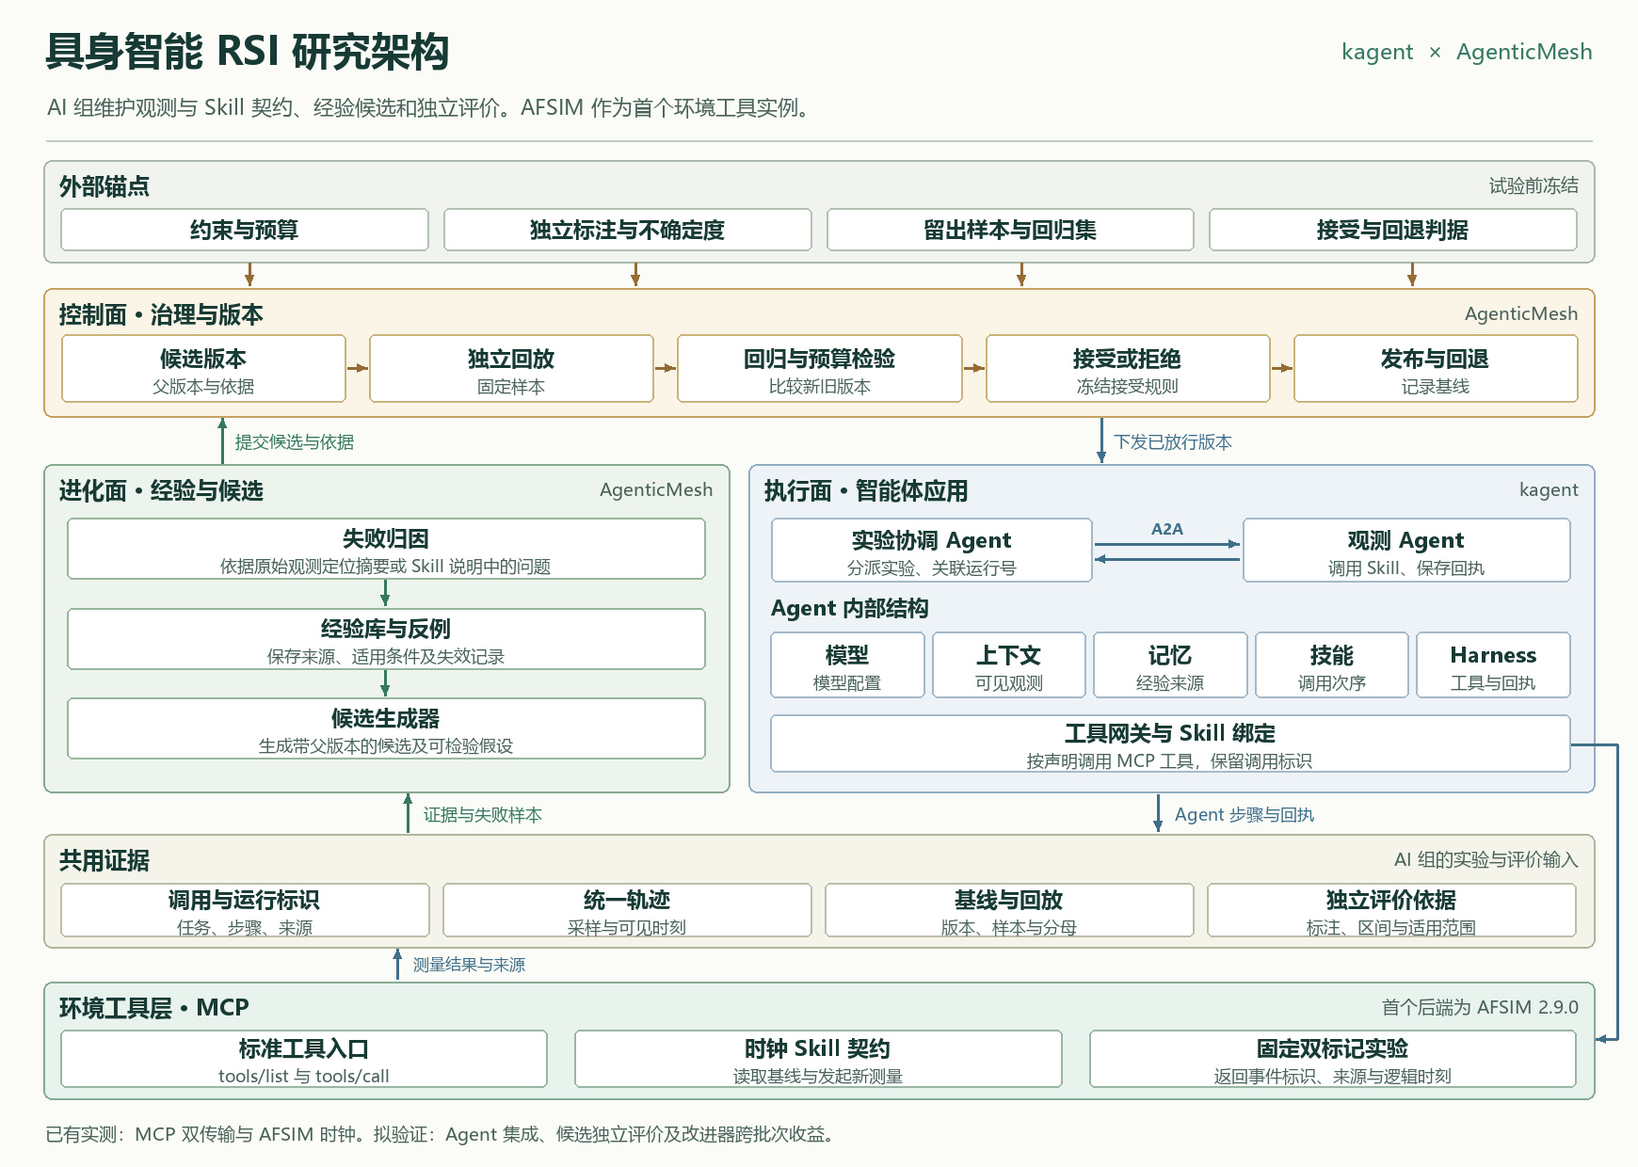
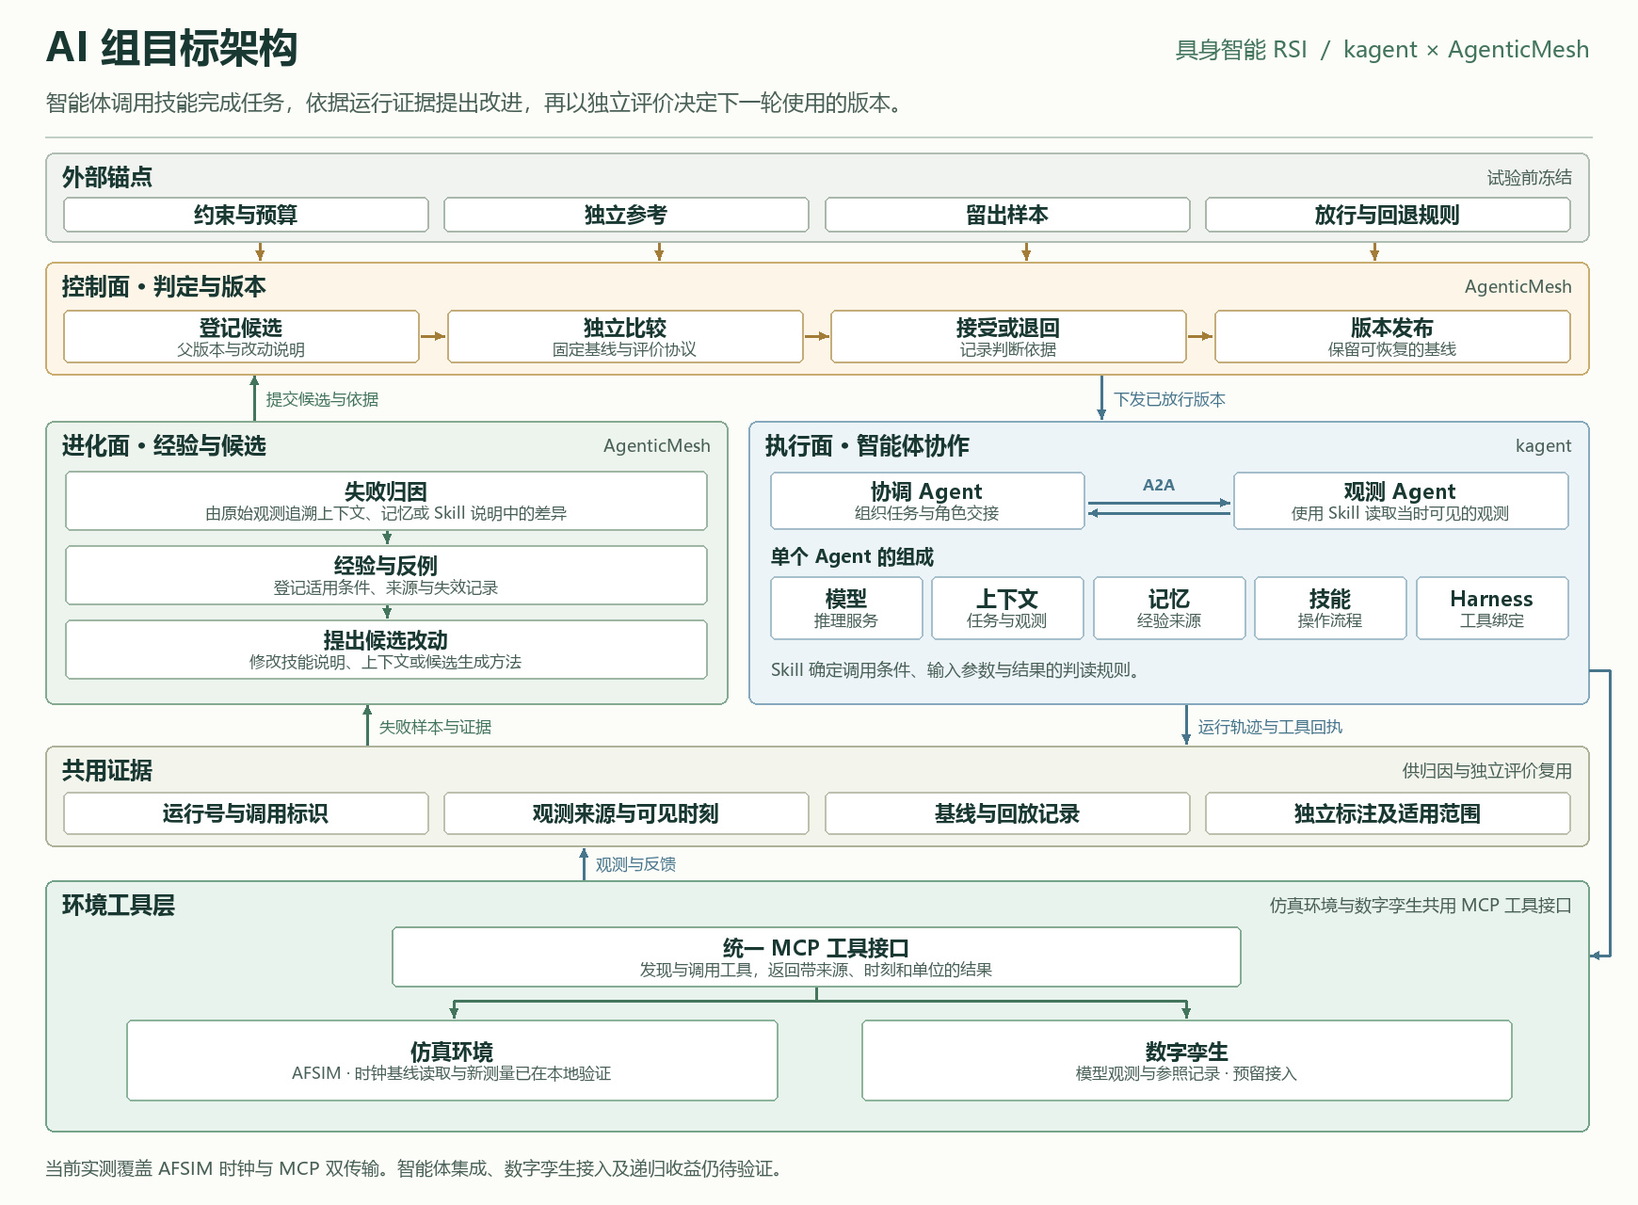
Unify simulation and digital twin services beneath the AI architecture

Changed region(s): [[0.031, 0.0, 0.9931, 0.9806], [0.7138, 0.0306, 0.9931, 0.0613]]

diff --git a/index.html b/index.html
@@ -4,8 +4,8 @@
   <meta charset="utf-8">
   <meta name="viewport" content="width=device-width, initial-scale=1">
   <meta name="theme-color" content="#123c36">
-  <meta name="description" content="基于 kagent 与 AgenticMesh 的具身智能 RSI 分层架构，含 AI 组研究方向、MCP 工具契约及首个 AFSIM 仿真实例。">
-  <title>具身智能 RSI · AI 组研究架构</title>
+  <meta name="description" content="基于 kagent 与 AgenticMesh 的具身智能 RSI 分层架构，上层组织智能体、Skill、经验与独立评价，底层以 MCP 接入仿真环境和数字孪生。">
+  <title>AI 组目标架构 · 具身智能 RSI</title>
   <link rel="stylesheet" href="./framework.css">
   <link rel="stylesheet" href="./embodied.css">
   <link rel="stylesheet" href="./blueprint.css">
@@ -17,16 +17,16 @@
   <a class="skip" href="#architecture">跳到通用架构</a>
   <header><div class="wrap bar">
     <a class="brand" href="#top"><b>具身智能</b><span>RSI 研究架构</span></a>
-    <nav aria-label="主导航"><a href="#architecture">架构总图</a><a href="./directions.html">方向规划图</a><a href="#engineering">AI 组任务</a><a href="#tool-contract">MCP 工具</a><a href="#adaptation">任务实例</a><a href="#recursion">递归验证</a><a href="#assets">成果库</a></nav>
+    <nav aria-label="主导航"><a href="#architecture">架构总图</a><a href="./directions.html">方向规划图</a><a href="#engineering">AI 组任务</a><a href="#environment-tools">环境工具层</a><a href="#adaptation">任务实例</a><a href="#recursion">递归验证</a><a href="#assets">成果库</a></nav>
   </div></header>
   <main>
     <section id="architecture" class="wrap blueprint-section">
       <div id="framework" class="blueprint-heading">
-        <div><p class="kicker">AI 组 · 具身智能与递归自我改进</p><h1>具身智能 RSI <em>研究架构</em></h1></div>
-        <p>kagent 承载智能体，AgenticMesh 管理证据与版本演化。智能体通过 MCP 调用环境工具，首个仿真后端选用 AFSIM。</p>
+        <div><p class="kicker">AI 组 · 目标架构</p><h1>具身智能体的<br><em>递归自我改进架构</em></h1></div>
+        <p>AI 组希望让智能体能够协作完成任务，从运行记录中找出失败原因，并提出可检验的技能改进。kagent 运行智能体，AgenticMesh 管理改进候选及其版本。候选通过独立评价后，才进入下一轮任务。</p>
       </div>
       <figure class="blueprint" aria-labelledby="map-caption">
-        <figcaption id="map-caption"><strong>系统组件与关系</strong><span>选择组件查看 AI 组交付与研究方向</span></figcaption>
+        <figcaption id="map-caption"><strong>系统组件与关系</strong><span>选择组件查看其职责与研究方向</span></figcaption>
         <div class="map-band anchor-band"><div class="band-title">外部锚点 <small>试验前冻结</small></div><div class="node-strip"><a href="#work-eval">约束与预算</a><a href="#work-twin">独立参考与不确定度</a><a href="#work-eval">留出样本与放行规则</a></div></div>
         <div class="map-wire">↓ 固定评价条件</div>
         <div id="control" class="map-band control-band"><div class="band-title">控制面 <small>AgenticMesh · 治理与发布</small></div><div class="node-strip flow-nodes"><a href="#work-release">接收候选</a><a href="#work-eval">独立对照与回归</a><a href="#work-release">发布或回退版本</a></div></div>
@@ -46,19 +46,19 @@
         </div>
         <div class="map-rails"><span>↑ 轨迹、失败样本与反馈</span><span>↕ 工具调用与结构化结果</span></div>
         <div class="map-band evidence-band"><div class="band-title">共用底座 <small>遥测、证据与实验</small></div><div class="node-strip"><a href="#work-eval">运行号与调用轨迹</a><a href="#work-eval">可复核的基线与回放</a><a href="#work-twin">独立标注与适用范围</a></div></div>
-        <div class="map-band tool-band"><div class="band-title">环境工具层 <small>MCP · 仿真适配</small></div>
-          <div class="tool-flow"><a href="#tool-contract">MCP 工具入口</a><span>⇄</span><a href="#work-tools">平台适配器</a><span>⇄</span><a href="#tool-contract">AFSIM 时钟实验</a></div>
-          <p>首次接入实现两个工具：读取对照记录、运行固定时钟测量。工具调用与回执同时进入证据底座。</p>
+        <div class="map-band tool-band" id="environment-tools"><div class="band-title">环境工具层 <small>通过 MCP 接入外部环境</small></div>
+          <div class="environment-bridge"><a class="environment-gateway" href="#work-tools">统一 MCP 工具接口</a><div class="environment-sources"><a href="#tool-contract"><strong>仿真环境</strong><span>AFSIM · 时钟工具已实测</span></a><div class="environment-source"><strong>数字孪生</strong><span>模型观测与参照记录 · 预留接入</span></div></div></div>
+          <p>Agent 通过 Skill 调用已登记的工具。返回的观测携带来源、时刻和单位，供 Agent 判断与实验回放使用。</p>
         </div>
       </figure>
       <p class="map-source">图中 kagent 集群、A2A 协作和 AgenticMesh 发布流程为拟建集成。时钟工具的验证范围见下方记录。 <a href="./directions.html">查看方向规划图</a> · <a href="./rsi-architecture.jpg" download>下载完整架构图</a> · <a href="http://admire.buaanlsde.cn/rsi/three-planes.html">三面架构设计参照</a> · <a href="https://kagent.dev/docs/kagent/0.x/concepts/agents/">kagent Agent 定义</a></p>
     </section>
     <section class="wrap direction-preview"><div><p class="kicker">方向规划图</p><h2>AI 组接下来研究什么？</h2><p>从可回放样本出发，沿观测表征和协作度量两条支线推进，再汇合到改进器的递归验证。</p><a class="button" href="./directions.html">进入方向规划图</a></div><a href="./directions.html" aria-label="查看 AI 组完整方向规划图"><img src="./ai-directions.jpg" width="1680" height="940" loading="lazy" alt="共同基准分出观测表征与协作度量两条支线，经 Skill 候选和独立评价后汇合"></a></section>
     <section class="band" id="engineering"><div class="wrap section">
-      <div class="section-head" id="research"><div><p class="kicker">AI 组任务</p><h2>模块、交付与验收</h2></div><p>AI 组维护 Agent 声明、Skill 语义、可见观测和独立评价规则。AFSIM 提供时钟样例，MCP 提供调用入口。打开各模块的研究方向，可查其前置成果和第一项实验。</p></div>
+      <div class="section-head" id="research"><div><p class="kicker">AI 组任务</p><h2>模块、交付与验收</h2></div><p>AI 组维护 Agent 的角色与协作、Skill 的调用规则、记忆与候选生成、独立评价及版本选择。每个模块都要交付能由下一项实验复用的记录或判据。</p></div>
       <div class="work-list">
 <article id="work-runtime"><div><small>执行面</small><h3>智能体上下文与角色交接</h3></div><div><p><b>交付</b>　定义 kagent Agent 的角色、上下文和 Skill 绑定，给每次交接保留观测来源。</p><p><b>验收</b>　在同一批读数任务上复核交接前后的信息遗漏。</p><a href="./directions.html#observation">局部观测的时间与表征</a></div></article>
-<article id="work-tools"><div><small>环境工具层</small><h3>Skill 与 MCP 调用契约</h3></div><div><p><b>交付</b>　编写 Skill 的输入、调用次序、回执和异常语义。用 AFSIM 时钟工具生成第一份调用样例。</p><p><b>验收</b>　从回执中区分基线与新测结果，检查事件标识、来源与时间单位。</p><a href="./directions.html#basis">可回放的共同基准</a></div></article>
+<article id="work-tools"><div><small>执行面 · 技能与工具绑定</small><h3>Skill 与 MCP 调用契约</h3></div><div><p><b>交付</b>　定义 Skill 何时调用 MCP 工具、允许哪些输入、如何解释输出。用时钟样例核对观测来源、单位和回执。</p><p><b>验收</b>　从回执中区分基线与新测结果，检查事件标识、来源与时间单位。</p><a href="./directions.html#basis">可回放的共同基准</a></div></article>
 <article id="work-eval"><div><small>共用证据</small><h3>群体度量与独立评价</h3></div><div><p><b>交付</b>　确定样本、分母、信息预算和配对基线，保留共同误判的反例。</p><p><b>验收</b>　从同一批输入复算一致率、共同误判率和配对收益。</p><a href="./directions.html#cooperation">共识与协作增益的度量</a></div></article>
 <article id="work-evolve"><div><small>进化面</small><h3>经验记忆与 Skill 候选</h3></div><div><p><b>交付</b>　给每条经验记录来源、适用范围和反例。每项候选引用父版本。</p><p><b>验收</b>　换一批样本检验同一条经验的收益和失效条件。</p><a href="./directions.html#skill">经验复用与 Skill 候选</a></div></article>
 <article id="work-release"><div><small>控制面</small><h3>候选判定与版本比较</h3></div><div><p><b>交付</b>　冻结独立评价协议、预算、留出集和可恢复的基线版本。</p><p><b>验收</b>　用已知退化版本检验接受规则，再以等预算比较新旧改进器。</p><a href="./directions.html#evaluation">候选版本的独立评价</a></div></article>
@@ -74,13 +74,13 @@
       <p class="asset-link"><a href="./clock_mcp.py" download>工具服务源码</a> · <a href="./mcp-clock-test.json" download>协议调用实测记录</a> · <a href="https://github.com/Admire-ljb/embodied-rsi-atlas#运行-mcp-时钟工具">本地运行说明</a> · <a href="https://modelcontextprotocol.io/specification/2025-11-25/server/tools">MCP 工具规范</a></p>
     </section>
     <section class="band" id="adaptation"><div class="wrap section">
-      <div class="section-head"><div><p class="kicker">任务适配层</p><h2>换任务，更换哪些内容？</h2></div><p>任务方描述环境、观测、能力、反馈和真值。通用内核沿用相同的运行、提案、评价和版本关系。下面两份设计配置通过同一份任务描述规范校验。</p></div>
+      <div class="section-head"><div><p class="kicker">任务适配层</p><h2>换任务，更换哪些内容？</h2></div><p>任务配置声明 Agent 可用的观测、工具、反馈和独立评价依据。通用内核沿用相同的运行、提案、评价和版本关系。下面两份设计配置通过同一份任务描述规范校验。</p></div>
       <div class="profile-panel">
-        <div class="profile-menu"><label for="profile-select">选择任务实例</label><select id="profile-select" disabled><option value="fixed-wing-simulation">高速固定翼无人机集群</option><option value="indoor-meter-inspection">室内移动机器人巡检</option></select><span id="profile-status">设计示例 · v1.2</span></div>
+        <div class="profile-menu"><label for="profile-select">选择任务实例</label><select id="profile-select" disabled><option value="fixed-wing-simulation">高速固定翼无人机集群</option><option value="indoor-meter-inspection">室内移动机器人巡检</option></select><span id="profile-status">设计示例 · v1.3</span></div>
         <div id="profile-content" aria-live="polite"><h3 id="profile-title">高速固定翼无人机集群</h3><p id="profile-objective">在给定仿真记录中，研究异步观测、群体判断与跨粒度比较的证据边界。</p>
           <dl class="field-grid" id="profile-fields">
                 <div><dt>具身体</dt><dd>多个匿名成员及群组</dd></div>
-                <div><dt>环境与数据来源</dt><dd>使用 AFSIM 时钟记录及带来源的任务级样本，比较不同记录粒度下可见的证据。</dd></div>
+                <div><dt>环境与数据来源</dt><dd>环境工具层通过 MCP 提供观测。AFSIM 时钟工具已在本地验证，数字孪生观测为预留输入。</dd></div>
                 <div><dt>时间语义</dt><dd>分别登记仿真采样时刻、可见时刻与记录粒度。</dd></div>
                 <div><dt>当时可见的观测</dt><dd>给定样本中当时已公开的局部观测、群组摘要和来源。</dd></div>
                 <div><dt>任务能力</dt><dd>查询带版本的样本快照、读取前缀记录、登记研究判断。</dd></div>
@@ -107,7 +107,7 @@
       <div class="section-head"><div><p class="kicker">共享成果库</p><h2>留下可复用的版本</h2></div><p>通用契约、任务配置、样本与评价记录共用成果索引。每一项列出归属模块、版本、适用范围和上游依赖。</p></div>
       <div class="asset-list">
           <div><span>通用契约 · v1.0</span><a href="./task-profile.schema.json" download="task-profile.schema.json">具身任务描述规范 ↓</a><p>JSON Schema 描述环境、具身体、观测、能力、反馈和独立评价等共用字段。</p></div>
-          <div><span>实例配置 · v1.2</span><a href="./task-profiles.json" download="task-profiles.json">双任务适配示例 ↓</a><p>固定翼时钟记录与室内巡检样例共用观测、来源和独立评价字段。</p></div>
+          <div><span>实例配置 · v1.3</span><a href="./task-profiles.json" download="task-profiles.json">双任务适配示例 ↓</a><p>固定翼与室内巡检沿用同一套观测与评价字段，具体环境通过工具接入。</p></div>
           <div><span>通用模板 · v1.0</span><a href="./rsi-experiment.txt" download="具身RSI实验记录.md">能力与改进器实验记录 ↓</a><p>分别记录任务能力版本、改进器版本、具身运行证据以及等预算的独立评价结果。</p></div>
           <div><span>合成样本 · v1.0</span><a href="./consensus-example.csv" download="consensus-example.csv">共同误判合成样本 ↓</a><p>8 个抽象二值判断样本及两组匿名预测，仅用于演示计数和分母。</p></div>
           <div><span>已复算示例 · v1.0</span><a href="./consensus-note.txt" download="consensus-note.md">共同误判复算记录 ↓</a><p>同一组样本说明一致率无法唯一确定共同误判率。</p></div>

diff --git a/blueprint.css b/blueprint.css
@@ -16,7 +16,7 @@
 .evidence-band { --wash: #f4f4ee; --stroke: #a7aa93; }
 .tool-band { --wash: #edf6f2; --stroke: #518575; margin-top: 8px; }
 .map-band p { color: #40564d; font-size: .93rem; margin-top: 4px; }
-.node-strip, .node-stack, .agent-strip, .tool-flow { display: grid; gap: 7px; margin-top: 7px; }
+.node-strip, .node-stack, .agent-strip { display: grid; gap: 7px; margin-top: 7px; }
 .node-strip { grid-template-columns: repeat(3, minmax(0, 1fr)); }
 .blueprint a, .agent-fold { background: #fff; border: 1px solid var(--stroke); border-radius: 4px; }
 .blueprint a { display: grid; place-items: center; text-align: center; padding: 4px 8px; color: #253c33; text-decoration: none; font-size: .94rem; overflow-wrap: anywhere; }
@@ -36,7 +36,15 @@
 .agent-fold dl { display: grid; grid-template-columns: auto 1fr; gap: 3px 12px; margin: 8px 0; font-size: .92rem; }
 .agent-fold dt { font-weight: 650; }
 .agent-fold dd { margin: 0; }
-.tool-flow { grid-template-columns: 1fr auto 1fr auto 1fr; align-items: center; }
+.environment-bridge { max-width: 55rem; margin: 12px auto; }
+.environment-gateway { width: fit-content; min-width: 42%; margin: 0 auto; font-weight: 650; }
+.environment-sources { position: relative; display: grid; grid-template-columns: repeat(2,minmax(0,1fr)); gap: 14px; padding-top: 22px; }
+.environment-sources::before { content: ''; position: absolute; left: 50%; top: 0; height: 11px; border-left: 1px solid var(--stroke); }
+.environment-sources::after { content: ''; position: absolute; left: calc(25% - 3.5px); right: calc(25% - 3.5px); top: 10px; height: 11px; border: 1px solid var(--stroke); border-bottom: 0; }
+.environment-sources > * { display: grid; align-content: center; justify-items: center; text-align: center; padding: 6px 8px; }
+.environment-source { background: white; border: 1px dashed var(--stroke); border-radius: 4px; }
+.environment-sources strong { font-size: 1rem; color: var(--ink); }
+.environment-sources span { color: var(--muted); font-size: .85rem; }
 .map-source { margin-top: 10px; }
 .work-list article { display: grid; grid-template-columns: minmax(190px, .72fr) 2fr; gap: 25px; padding: 17px 0; border-top: 1px solid #bdcbbf; scroll-margin-block-start: 1rem; }
 .work-list small { color: var(--green); font-weight: 650; }
@@ -53,7 +61,7 @@
   .blueprint-section { width: calc(100% - 24px); }
   .map-pair { grid-template-columns: 1fr; gap: 7px; }
   .node-stack { grid-template-columns: repeat(3,minmax(0,1fr)); }
-  .node-strip, .tool-flow { column-gap: 4px; }
+  .node-strip { column-gap: 4px; }
   .flow-nodes { column-gap: 13px; }
   .flow-nodes a:not(:last-child)::after { left: 100%; font-size: .78rem; }
   .blueprint a { padding: 4px; font-size: .88rem; }

diff --git a/fixed-wing.html b/fixed-wing.html
@@ -58,9 +58,9 @@
       </div>
     </div></section>
     <section class="wrap section" id="integration" aria-labelledby="integration-title">
-      <div class="section-head"><div><p class="kicker">固定翼实例 · AI 组</p><h2 id="integration-title">用 AFSIM 时钟检验 Skill 的调用语义</h2></div><p>已有实测覆盖两个无实体时钟标记。AI 组用这份记录核对调用、返回与判读的含义，再建立带可见时间的观测样本。</p></div>
+      <div class="section-head"><div><p class="kicker">固定翼实例 · AI 组</p><h2 id="integration-title">用 AFSIM 时钟检验 Skill 的调用语义</h2></div><p>在这个实例中，AI 组用环境工具层返回的两个时钟标记验证 Skill 的调用和判读规则。其他观测源按同一接口接入。</p></div>
       <div class="planes"><article><h3>可见输入</h3><p>保存采样时刻、可见时刻、来源和单位，写清智能体在每次判断时可以读取的历史范围。</p></article><article><h3>可复用 Skill</h3><p>分别读取基线并发起新测量，用回执中的运行号区别两次调用。比较事件标识和逻辑时间，保留差异与缺失值。</p></article><article><h3>独立验收</h3><p>用人为标注的迟到观测验证查询前缀。再由另一位评价者只凭冻结记录复算，无独立依据的情况标记为未知。</p></article></div>
-      <p class="asset-link"><a href="./directions.html#observation">对应方向与首个实验</a> · <a href="./index.html#tool-contract">时钟工具与实测记录</a></p>
+      <p class="asset-link"><a href="./directions.html#observation">对应方向与首个实验</a> · <a href="./index.html#tool-contract">时钟工具与实测记录</a> · <a href="./index.html#environment-tools">查看环境工具层</a></p>
       <div class="worked" id="clock-check"><h3>首项实测 · AFSIM 逻辑时钟</h3><p>在本地 AFSIM 2.9.0 中，以同一份无实体输入独立运行两次。两次均在逻辑时间 1 秒和 3 秒依次输出标记 A、B。此结果验证了这两个标记的顺序和时刻可复现。观测可见性与 Agent 集成需分别验证。</p><p class="asset-link"><a href="./afsim-clock-input.txt" download>下载时钟样例输入</a> · <a href="./afsim-clock-check.json" download>下载两次运行的逐项记录</a></p></div>
     </section>
     <section class="wrap section" id="roadmap">

diff --git a/README.md b/README.md
@@ -1,10 +1,10 @@
 # 具身智能 RSI 研究架构
 
-首页以外部锚点、RSI 三面、共用证据和环境工具展示系统。设计采用 kagent 运行 Agent，AgenticMesh 组织治理、归因与候选发布，MCP 连接具身环境。AI 组围绕观测、协作度量和递归改进维护基准、Skill 与评价协议。高速固定翼与室内仪表巡检是两份任务配置。
+AI 组研究如何让智能体协作、复用经验，并独立检验技能与改进器的候选版本。kagent 负责 Agent 运行，AgenticMesh 管理证据、候选与版本。仿真环境和数字孪生并列位于环境工具层，通过统一 MCP 工具接口提供观测和反馈。首个 AFSIM 时钟样例已在本地验证，数字孪生接入为架构设计。
 
 ## 入口
 
-- [分层架构总图](./index.html#architecture) · [AI 组任务](./index.html#engineering) · [方向规划图](./directions.html) · [环境工具](./index.html#tool-contract)
+- [分层架构总图](./index.html#architecture) · [AI 组任务](./index.html#engineering) · [方向规划图](./directions.html) · [环境工具层](./index.html#environment-tools) · [已测时钟工具](./index.html#tool-contract)
 - [高速固定翼专题](./fixed-wing.html)
 - [AI 组的 AFSIM 时钟样例](./fixed-wing.html#integration)，含[时钟输入](./afsim-clock-input.txt)及[两次运行记录](./afsim-clock-check.json)。本地时钟复现实验使用 AFSIM 2.9.0，后续可见性实验的前置条件见方向规划图。
 - [专题学生研究点与开题卡](./topics.html)
